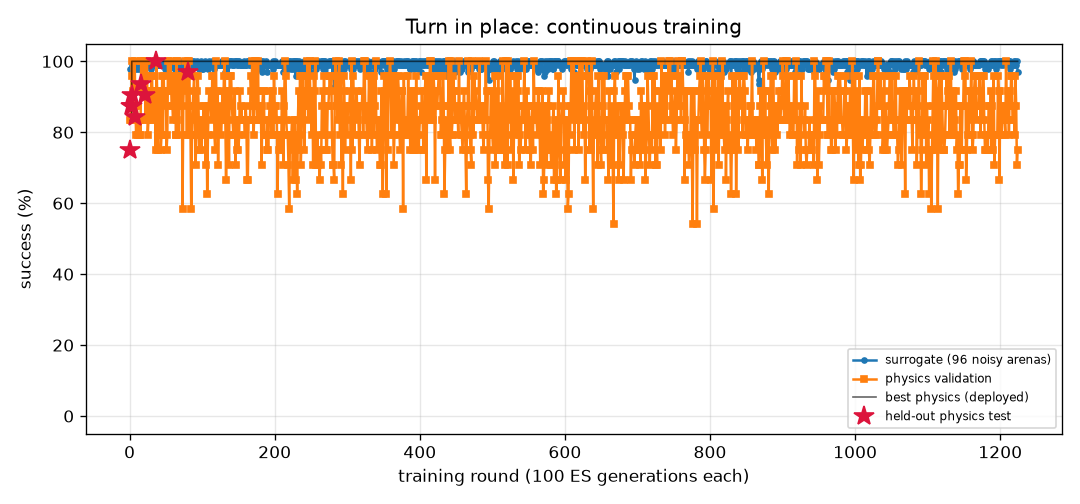
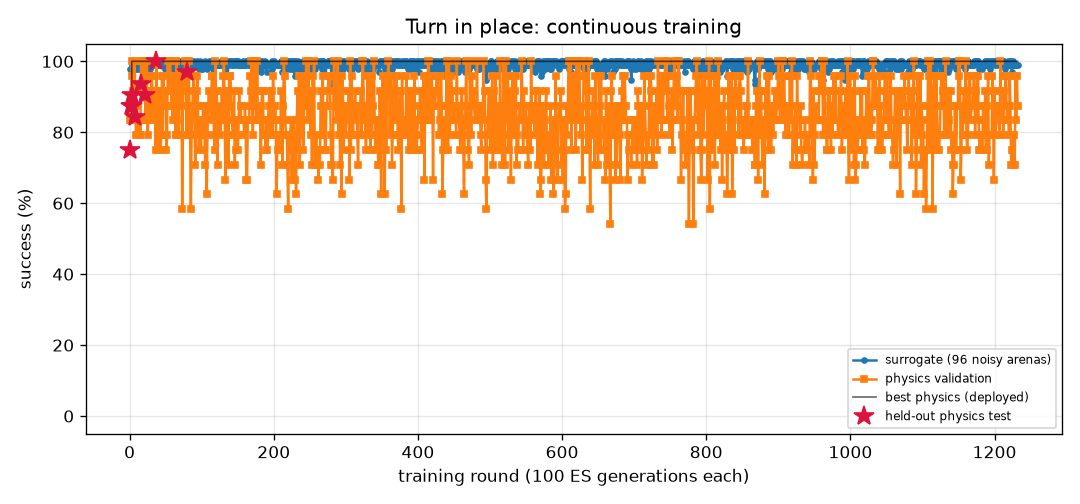
FlyLab: continuous training progress
- walk_forward: optimal, physics val 100% of 24, round 467
- turn: optimal, physics val 100% of 24, round 1232
- goto: optimal, physics val 100% of 24, round 361
- odor_seek: optimal, physics val 100% of 24, round 290
- odor_avoid: optimal, physics val 100% of 24, round 1051
- light_seek: optimal, physics val 100% of 24, round 563
- light_avoid: optimal, physics val 100% of 24, round 761

diff --git a/projects/09_flylab/training/turn/REPORT.md b/projects/09_flylab/training/turn/REPORT.md
@@ -1,14 +1,14 @@
 # Turn in place (`turn`) — training report
 
-*Auto-generated by `train_brains.py`, last updated 2026-11-21T01:29:34.*
+*Auto-generated by `train_brains.py`, last updated 2026-11-21T11:54:16.*
 
 ![curve](curve.png)
 
 | | |
 |---|---|
-| rounds | 1224 |
-| ES generations | 122400 |
-| physics runs | 29622 |
+| rounds | 1232 |
+| ES generations | 123200 |
+| physics runs | 29814 |
 | status | **optimal** |
 | best brain | round 80: physics validation **100%** on 24 arenas, surrogate 100% |
 | held-out physics test | **97%** on 32 unseen arenas (95% CI 84%-99%) (errors: [1.6, 3.3, 6.3, 3.7, 1.1, 0.4, 2.4, 2.9, 0.1, 2.6, 0.5, 2.7, 1.5, 3.1, 4.5, 0.2, 0.5, 1.1, 2.0, 4.4, 2.8, 3.2, 0.3, 2.2, 0.5, 3.0, 0.3, 5.4, 0.4, 1.0, 4.7, 10.7]) |
@@ -17,14 +17,6 @@ Physics error per arena: deg from target heading (< 20 = success).
 
 | round | level | gens | sigma | surrogate | physics val | val errors | test | note |
 |---:|---:|---:|---:|---:|---:|---|---:|---|
-| 1185 | 3 | 118500 | 0.024 | 99% | 88% | [5.0, 8.5, 6.8, 3.1, 1.9, 0.2, 4.1, 1.7, 3.5, 0.0, 3.9, 1.8, 0.0, 1.2, 3.9, 1.3, 1.6, 0.0, 0.7, 0.3, 5.6, 0.7, 5.0, 0.5] |  |  |
-| 1186 | 3 | 118600 | 0.025 | 99% | 79% | [9.0, 9.5, 3.2, 0.4, 2.4, 1.9, 2.6, 0.8, 2.9, 0.3, 2.5, 1.9, 0.5, 4.4, 2.4, 0.2, 1.8, 0.2, 0.6, 2.4, 9.1, 0.1, 2.0, 5.4] |  |  |
-| 1187 | 3 | 118700 | 0.025 | 100% | 92% | [5.5, 8.0, 1.0, 3.0, 1.8, 3.7, 3.7, 4.1, 4.8, 0.6, 3.1, 1.4, 1.1, 4.1, 2.2, 0.7, 1.1, 0.3, 0.7, 0.9, 4.2, 4.0, 4.6, 0.8] |  |  |
-| 1188 | 3 | 118800 | 0.024 | 99% | 75% | [6.9, 8.7, 2.1, 1.1, 15.1, 3.0, 7.2, 2.4, 3.0, 0.3, 4.5, 1.0, 1.2, 0.5, 5.2, 1.2, 1.7, 2.1, 0.7, 0.0, 3.6, 1.4, 5.6, 9.5] |  | restart from best |
-| 1189 | 3 | 118900 | 0.024 | 100% | 88% | [1.5, 4.7, 7.3, 2.1, 4.6, 2.2, 6.7, 7.9, 4.6, 1.3, 5.2, 2.2, 1.3, 0.3, 5.9, 3.7, 0.7, 2.7, 3.5, 3.4, 5.7, 3.0, 5.0, 7.7] |  |  |
-| 1190 | 3 | 119000 | 0.024 | 99% | 75% | [0.9, 3.8, 8.8, 2.2, 0.6, 2.6, 7.9, 9.4, 7.1, 1.8, 6.1, 2.8, 3.2, 1.3, 5.9, 4.0, 0.3, 3.2, 4.1, 4.4, 2.5, 3.0, 9.1, 5.1] |  |  |
-| 1191 | 3 | 119100 | 0.025 | 100% | 96% | [0.4, 1.4, 2.6, 0.3, 1.4, 2.9, 3.9, 5.4, 6.9, 0.9, 3.9, 1.6, 0.4, 1.9, 2.9, 1.9, 1.0, 0.8, 1.6, 1.4, 3.1, 2.0, 5.3, 5.5] |  |  |
-| 1192 | 3 | 119200 | 0.024 | 99% | 71% | [7.2, 6.2, 0.5, 0.3, 2.4, 1.5, 4.3, 5.2, 5.6, 0.9, 5.0, 0.3, 0.2, 2.4, 3.3, 0.3, 0.3, 1.8, 0.0, 0.4, 3.4, 1.2, 5.9, 6.1] |  | restart from best |
 | 1193 | 3 | 119300 | 0.024 | 100% | 79% | [4.9, 5.9, 2.8, 1.0, 13.1, 4.2, 5.1, 4.6, 4.1, 0.7, 4.2, 0.6, 0.9, 0.9, 3.8, 0.1, 0.2, 1.6, 0.4, 0.5, 3.3, 0.1, 6.9, 6.2] |  |  |
 | 1194 | 3 | 119400 | 0.024 | 98% | 79% | [7.7, 3.4, 1.6, 1.3, 6.7, 0.2, 5.8, 4.1, 5.6, 13.8, 5.7, 1.7, 1.0, 2.2, 5.7, 0.4, 1.9, 1.7, 0.2, 3.3, 8.7, 2.5, 4.0, 6.7] |  |  |
 | 1195 | 3 | 119500 | 0.025 | 99% | 79% | [8.6, 10.1, 8.8, 2.1, 8.0, 3.0, 4.9, 1.5, 3.1, 1.1, 3.3, 1.6, 0.9, 0.1, 2.4, 0.6, 1.5, 0.7, 0.6, 0.4, 4.1, 1.8, 4.7, 1.6] |  |  |
@@ -57,3 +49,11 @@ Physics error per arena: deg from target heading (< 20 = success).
 | 1222 | 3 | 122200 | 0.024 | 99% | 88% | [6.7, 4.7, 0.3, 2.1, 4.5, 0.9, 4.5, 1.2, 4.2, 0.7, 5.2, 1.8, 0.3, 0.1, 4.3, 3.3, 0.8, 0.1, 1.7, 0.6, 6.8, 2.9, 5.2, 6.1] |  |  |
 | 1223 | 3 | 122300 | 0.025 | 100% | 71% | [4.4, 5.6, 0.1, 1.6, 2.0, 3.4, 4.5, 6.2, 3.4, 1.2, 4.0, 0.8, 0.0, 0.7, 4.2, 1.7, 0.8, 1.6, 0.7, 0.1, 4.3, 5.0, 6.3, 4.2] |  |  |
 | 1224 | 3 | 122400 | 0.024 | 97% | 75% | [3.9, 7.2, 0.5, 4.7, 2.1, 2.1, 7.0, 9.3, 5.0, 0.8, 4.2, 4.5, 2.8, 1.5, 4.8, 1.5, 4.8, 2.3, 1.4, 1.4, 5.7, 71.1, 3.2, 5.6] |  | restart from best |
+| 1225 | 3 | 122500 | 0.024 | 99% | 71% | [7.5, 3.8, 4.6, 0.4, 2.1, 1.3, 7.4, 1.1, 6.4, 0.2, 5.9, 0.4, 0.9, 1.6, 5.2, 3.0, 1.1, 2.0, 2.8, 0.1, 114.6, 3.4, 6.2, 8.6] |  |  |
+| 1226 | 3 | 122600 | 0.025 | 100% | 79% | [7.1, 5.1, 2.1, 1.9, 5.5, 2.0, 4.7, 0.7, 6.0, 0.4, 5.0, 0.6, 0.1, 0.1, 4.6, 1.7, 0.0, 3.5, 16.2, 2.4, 3.7, 0.2, 5.7, 3.4] |  |  |
+| 1227 | 3 | 122700 | 0.024 | 99% | 79% | [5.7, 8.1, 2.4, 0.5, 2.3, 2.6, 3.7, 3.0, 4.8, 0.4, 3.4, 1.2, 2.1, 2.8, 4.1, 1.5, 1.3, 1.0, 0.2, 0.3, 5.5, 0.4, 5.2, 2.1] |  |  |
+| 1228 | 3 | 122800 | 0.025 | 99% | 71% | [0.3, 3.2, 4.4, 0.4, 6.0, 0.5, 6.6, 2.8, 5.2, 0.5, 5.5, 0.9, 0.3, 1.8, 4.7, 4.2, 1.0, 3.3, 2.4, 3.1, 3.1, 1.8, 6.5, 4.4] |  | restart from best |
+| 1229 | 3 | 122900 | 0.024 | 99% | 96% | [5.2, 4.6, 7.1, 3.9, 1.6, 2.1, 4.3, 6.0, 4.1, 3.2, 3.3, 1.2, 2.3, 3.9, 3.2, 0.1, 1.3, 0.5, 10.4, 2.0, 3.5, 0.2, 3.4, 1.7] |  |  |
+| 1230 | 3 | 123000 | 0.025 | 99% | 83% | [8.8, 6.0, 8.7, 3.7, 3.8, 3.7, 4.4, 2.2, 4.9, 2.7, 4.6, 0.6, 3.1, 2.9, 3.9, 0.2, 0.8, 1.8, 0.3, 0.1, 4.6, 0.1, 4.3, 4.7] |  |  |
+| 1231 | 3 | 123100 | 0.025 | 99% | 96% | [3.9, 0.1, 7.1, 1.5, 1.0, 4.9, 5.9, 1.7, 5.3, 0.8, 4.9, 0.8, 2.1, 3.3, 4.2, 2.5, 1.1, 3.5, 4.3, 4.3, 7.9, 2.0, 6.4, 7.0] |  |  |
+| 1232 | 3 | 123200 | 0.025 | 99% | 88% | [5.7, 17.7, 12.0, 3.1, 20.5, 85.7, 9.3, 11.5, 8.8, 4.5, 4.3, 7.7, 5.4, 3.2, 7.7, 17.8, 8.0, 17.8, 17.9, 7.3, 1.6, 6.2, 9.0, 10.0] |  | restart from best |

diff --git a/projects/09_flylab/training/odor_avoid/REPORT.md b/projects/09_flylab/training/odor_avoid/REPORT.md
@@ -1,14 +1,14 @@
 # Escape a bad smell (`odor_avoid`) — training report
 
-*Auto-generated by `train_brains.py`, last updated 2026-11-20T22:31:46.*
+*Auto-generated by `train_brains.py`, last updated 2026-11-21T11:52:24.*
 
 ![curve](curve.png)
 
 | | |
 |---|---|
-| rounds | 1045 |
-| ES generations | 104500 |
-| physics runs | 22386 |
+| rounds | 1051 |
+| ES generations | 105100 |
+| physics runs | 22530 |
 | status | **optimal** |
 | best brain | round 373: physics validation **100%** on 24 arenas, surrogate 97% |
 | held-out physics test | **97%** on 32 unseen arenas (95% CI 84%-99%) (errors: [62.0, 57.4, 62.6, 61.9, 59.0, 61.6, 56.5, 60.7, 31.7, 60.9, 63.1, 57.1, 61.1, 62.1, 61.5, 60.2, 62.2, 55.2, 62.1, 54.2, 61.3, 62.0, 58.0, 61.9, 59.8, 56.5, 56.3, 56.4, 56.3, 57.7, 61.9, 32.4]) |
@@ -17,12 +17,6 @@ Physics error per arena: mm gained away from source (> 6 without first approachi
 
 | round | level | gens | sigma | surrogate | physics val | val errors | test | note |
 |---:|---:|---:|---:|---:|---:|---|---:|---|
-| 1006 | 3 | 100600 | 0.026 | 95% | 96% | [62.6, 58.5, 55.9, 61.0, 61.4, 61.9, 61.1, 42.9, 61.2, 35.2, 61.3, 61.8, 52.3, 56.6, 37.9, 61.4, 62.0, 60.3, 55.3, 57.3, 62.2, 61.0, 59.2, 58.5] |  |  |
-| 1007 | 3 | 100700 | 0.027 | 95% | 96% | [61.4, 59.3, 55.5, 59.1, 57.9, 49.3, 62.2, 43.9, 61.6, 46.8, 16.8, 60.8, 44.0, 50.8, 32.7, 59.4, 59.9, 61.0, 43.7, 57.4, 60.0, 43.3, 60.7, 59.9] |  |  |
-| 1008 | 3 | 100800 | 0.027 | 97% | 96% | [61.9, 61.0, 56.5, 60.7, 61.7, 62.3, 62.0, 58.4, 61.8, 53.8, 46.4, 61.5, 50.7, 56.2, 37.0, 61.1, 61.9, 61.8, 51.4, 59.8, 61.6, 52.8, 57.3, 52.0] |  |  |
-| 1009 | 3 | 100900 | 0.026 | 96% | 100% | [62.2, 58.6, 55.8, 60.7, 60.9, 59.5, 60.4, 17.9, 60.2, 27.5, 60.2, 61.0, 51.0, 55.3, 24.9, 61.4, 61.6, 58.7, 54.2, 57.1, 61.3, 46.8, 58.4, 43.9] |  | restart from best |
-| 1010 | 3 | 101000 | 0.026 | 91% | 96% | [61.9, 59.6, 56.4, 60.7, 59.3, 61.6, 62.4, 58.4, 60.5, 52.4, 54.3, 61.7, 51.8, 55.6, 42.5, 61.8, 62.0, 62.1, 52.8, 59.6, 61.7, 47.5, 59.5, 61.1] |  |  |
-| 1011 | 3 | 101100 | 0.029 | 96% | 96% | [62.8, 58.1, 56.2, 61.3, 62.1, 62.2, 60.8, 44.2, 60.5, 62.0, 61.4, 61.7, 49.3, 55.3, 46.6, 61.1, 62.2, 62.4, 55.0, 56.4, 61.9, 61.7, 61.3, 56.4] |  |  |
 | 1012 | 3 | 101200 | 0.026 | 95% | 96% | [59.4, 55.7, 55.6, 56.3, 60.5, 60.3, 59.4, 15.8, 59.5, 46.1, 33.3, 61.4, 51.1, 55.1, 38.3, 60.5, 61.0, 60.4, 54.5, 54.4, 61.4, 31.0, 56.2, 30.5] |  |  |
 | 1013 | 3 | 101300 | 0.027 | 97% | 96% | [61.2, 59.4, 57.3, 59.9, 60.4, 60.3, 61.3, 44.2, 59.7, 19.2, 35.0, 60.6, 51.5, 56.8, 43.7, 45.9, 60.8, 57.9, 51.8, 58.9, 60.4, 50.8, 59.0, 57.9] |  | restart from best |
 | 1014 | 3 | 101400 | 0.026 | 95% | 100% | [62.4, 60.0, 55.9, 58.1, 62.5, 62.0, 61.3, 45.4, 60.4, 60.1, 62.1, 62.4, 55.0, 56.1, 50.6, 62.2, 62.4, 61.2, 55.3, 56.8, 62.4, 62.1, 58.1, 33.6] |  |  |
@@ -57,3 +51,9 @@ Physics error per arena: mm gained away from source (> 6 without first approachi
 | 1043 | 3 | 104300 | 0.025 | 95% | 96% | [60.8, 57.7, 55.1, 59.5, 60.0, 58.6, 59.8, 48.0, 59.9, 56.0, 60.0, 59.8, 53.6, 56.9, 38.8, 60.2, 59.9, 59.6, 54.5, 56.5, 60.6, 56.5, 57.7, 40.8] |  |  |
 | 1044 | 3 | 104400 | 0.027 | 93% | 96% | [60.3, 59.5, 55.0, 59.4, 59.2, 58.4, 60.5, 55.8, 60.3, 54.8, 59.5, 60.1, 53.6, 55.7, 43.0, 59.1, 60.4, 59.1, 54.2, 58.2, 60.2, 57.5, 56.2, 60.1] |  |  |
 | 1045 | 3 | 104500 | 0.028 | 96% | 100% | [59.8, 54.9, 55.0, 54.2, 59.5, 58.2, 58.9, 47.3, 58.7, 57.6, 59.6, 59.8, 54.2, 54.9, 42.7, 59.0, 59.7, 58.2, 54.1, 55.5, 59.7, 56.8, 54.0, 56.3] |  | restart from best |
+| 1046 | 3 | 104600 | 0.026 | 95% | 100% | [62.7, 60.0, 56.2, 61.2, 62.3, 61.1, 60.9, 8.9, 61.9, 60.1, 62.1, 62.0, 54.7, 56.0, 48.2, 61.9, 62.0, 61.5, 55.4, 57.3, 62.4, 30.9, 61.1, 36.0] |  |  |
+| 1047 | 3 | 104700 | 0.027 | 96% | 100% | [61.9, 60.7, 55.7, 61.1, 62.4, 62.4, 62.1, 61.5, 62.3, 60.5, 60.7, 61.6, 54.7, 55.7, 50.4, 61.2, 62.2, 61.1, 55.3, 59.8, 61.8, 62.7, 57.0, 61.6] |  |  |
+| 1048 | 3 | 104800 | 0.026 | 95% | 100% | [63.3, 59.2, 56.6, 61.8, 62.0, 61.8, 61.8, 34.1, 60.9, 53.8, 44.4, 62.0, 51.0, 54.6, 41.1, 60.8, 62.5, 59.0, 49.4, 56.8, 61.9, 58.0, 55.8, 53.6] |  |  |
+| 1049 | 3 | 104900 | 0.027 | 96% | 96% | [63.8, 58.1, 56.7, 61.9, 62.6, 62.9, 62.0, 50.9, 60.6, 62.6, 62.2, 62.4, 52.1, 56.3, 35.9, 62.2, 62.4, 61.6, 55.3, 55.5, 62.6, 62.7, 58.7, 60.4] |  | restart from best |
+| 1050 | 3 | 105000 | 0.026 | 96% | 96% | [63.3, 61.0, 55.9, 60.1, 61.7, 62.0, 61.1, 48.4, 61.9, 46.9, 61.5, 62.2, 51.6, 52.9, 36.5, 60.9, 62.0, 60.3, 55.2, 59.1, 61.8, 60.3, 60.0, 49.3] |  |  |
+| 1051 | 3 | 105100 | 0.026 | 99% | 100% | [60.5, 53.1, 55.6, 53.7, 61.1, 59.1, 60.4, 43.0, 60.8, 33.4, 59.2, 60.7, 53.9, 55.6, 42.0, 60.8, 60.7, 59.3, 54.1, 56.6, 61.0, 59.8, 57.9, 37.3] |  |  |

diff --git a/projects/09_flylab/training/TRAINING.md b/projects/09_flylab/training/TRAINING.md
@@ -1,15 +1,15 @@
 # FlyLab brains — continuous training log
 
-*Auto-generated by `train_brains.py`, last updated 2026-11-21T01:31:18.*
+*Auto-generated by `train_brains.py`, last updated 2026-11-21T11:54:16.*
 
 Every skill has its own brain and its own training process: surrogate ES rounds, physics validation in MuJoCo, keep-the-best selection, and a held-out physics test that is never used for selection. See each skill's report for its full round-by-round history. Mastery is progressive: passing a level (100% physics validation, >=95% surrogate) doubles the validation and test arena sets; a brain is **optimal** once it holds up at level 3 (>=95% of 24 validation arenas) AND scores >=90% on the 32 held-out test arenas. Test columns show 95% Wilson confidence intervals.
 
 | skill | rounds | ES generations | physics runs | surrogate | physics val | **physics test** | status |
 |---|---:|---:|---:|---:|---:|---:|---|
 | [Walk forward](walk_forward/REPORT.md) | 467 | 46700 | 11254 | 99% | 100% of 24 | 100% of 32 (CI 89-100%) | **optimal** |
-| [Turn in place](turn/REPORT.md) | 1224 | 122400 | 29622 | 100% | 100% of 24 | 97% of 32 (CI 84-99%) | **optimal** |
+| [Turn in place](turn/REPORT.md) | 1232 | 123200 | 29814 | 100% | 100% of 24 | 97% of 32 (CI 84-99%) | **optimal** |
 | [Go to a location](goto/REPORT.md) | 361 | 36100 | 8614 | 100% | 100% of 24 | 100% of 32 (CI 89-100%) | **optimal** |
 | [Find food by smell](odor_seek/REPORT.md) | 290 | 29000 | 6454 | 100% | 100% of 24 | 100% of 32 (CI 89-100%) | **optimal** |
-| [Escape a bad smell](odor_avoid/REPORT.md) | 1045 | 104500 | 22386 | 97% | 100% of 24 | 97% of 32 (CI 84-99%) | **optimal** |
+| [Escape a bad smell](odor_avoid/REPORT.md) | 1051 | 105100 | 22530 | 97% | 100% of 24 | 97% of 32 (CI 84-99%) | **optimal** |
 | [Walk toward light](light_seek/REPORT.md) | 563 | 56300 | 10392 | 100% | 100% of 24 | 100% of 32 (CI 89-100%) | **optimal** |
 | [Hide from light](light_avoid/REPORT.md) | 761 | 76100 | 18536 | 100% | 100% of 24 | 100% of 32 (CI 89-100%) | **optimal** |
